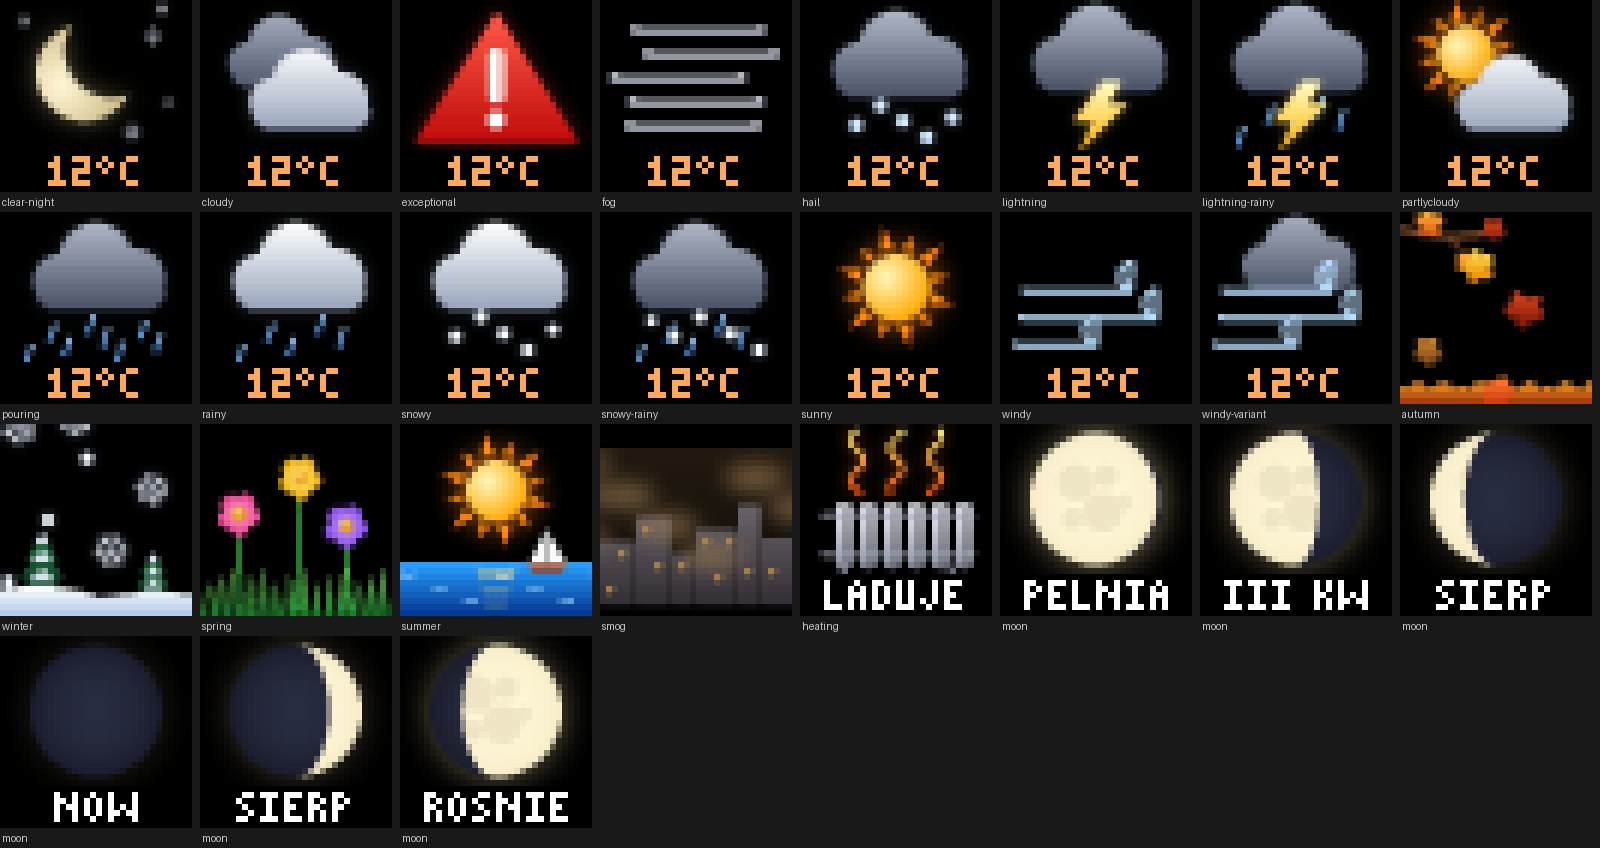
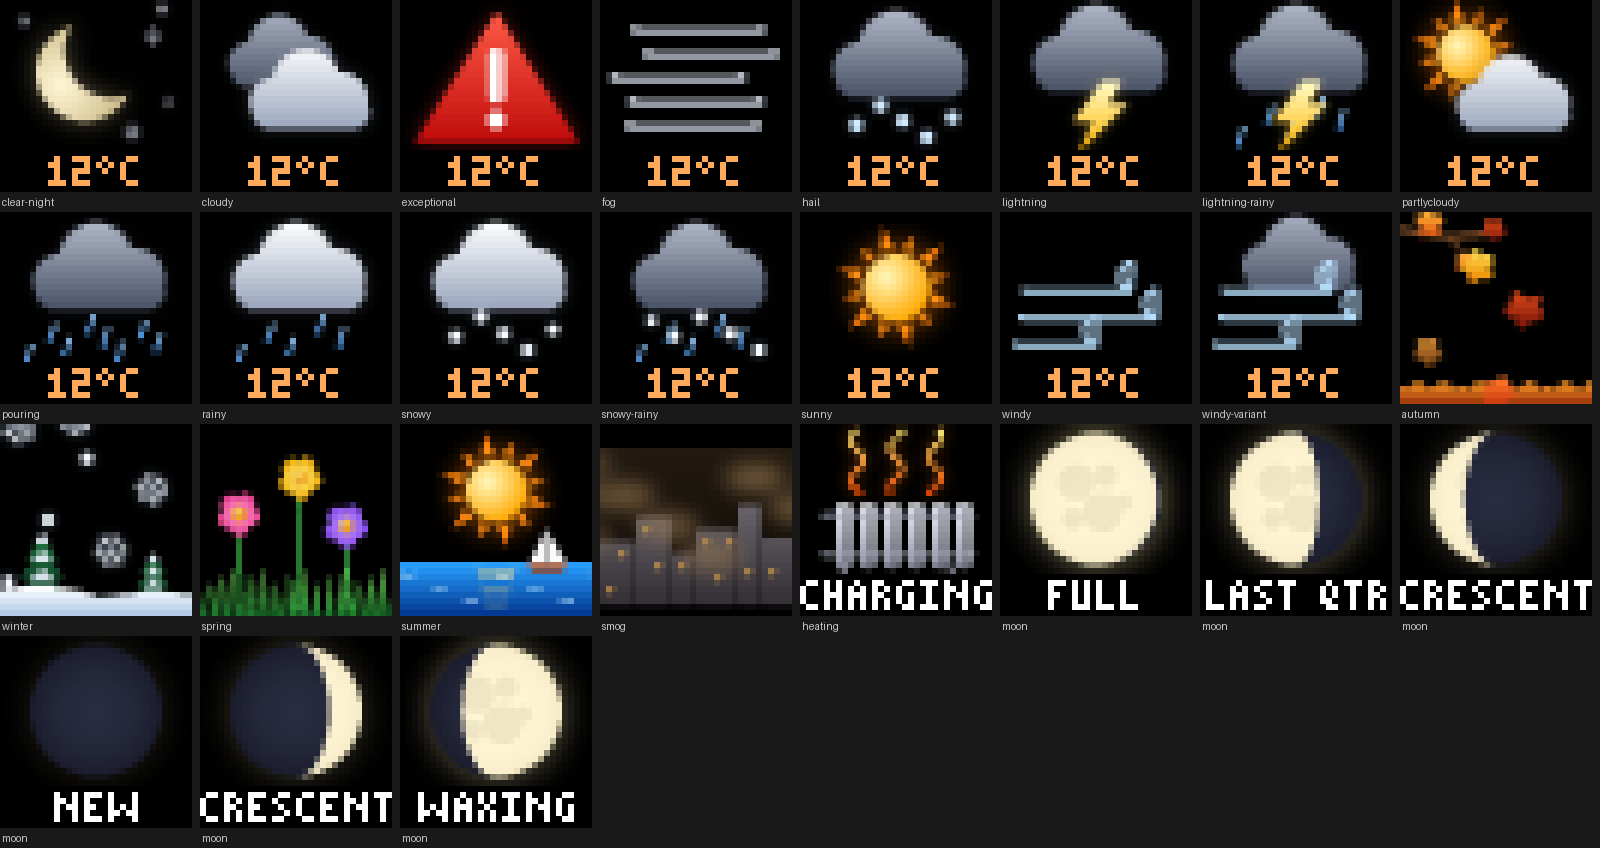
Add English captions and an English picture gallery
Automatic captions (moon phase names, heating "charging") now follow
Home Assistant's language (English or Polish), or the new `language`
field of show_icon. README gallery in English, Polish copy kept in
images/pictures_pl.png. Version 0.6.1.

Claude-Session: https://claude.ai/code/session_0126mxnvaX8dHVpu6rpKB9fY

diff --git a/custom_components/bk_light_panel/icons.py b/custom_components/bk_light_panel/icons.py
@@ -29,7 +29,23 @@ ALERTS = {"smog", "heating"}
 ANIMATED = (WEATHER - {"exceptional"}) | SEASONS | ALERTS
 ICONS = sorted(WEATHER | SEASONS | ALERTS | {"moon", "season"})
 
-SEASON_NAMES = {"spring": "WIOSNA", "summer": "LATO", "autumn": "JESIEŃ", "winter": "ZIMA"}
+# automatic captions; every text fits the 32-pixel width of the panel
+LANGUAGES = ("en", "pl")
+MOON_NAMES = {
+    "en": ["NEW", "CRESCENT", "1ST QTR", "WAXING", "FULL", "WANING", "LAST QTR", "CRESCENT"],
+    "pl": ["NÓW", "SIERP", "I KW", "ROŚNIE", "PEŁNIA", "UBYWA", "III KW", "SIERP"],
+}
+CHARGING = {"en": "CHARGING", "pl": "ŁADUJE"}
+SEASON_NAMES = {
+    "en": {"spring": "SPRING", "summer": "SUMMER", "autumn": "AUTUMN", "winter": "WINTER"},
+    "pl": {"spring": "WIOSNA", "summer": "LATO", "autumn": "JESIEŃ", "winter": "ZIMA"},
+}
+
+
+def language_for(code: str | None) -> str:
+    """'pl', 'pl-PL' -> 'pl'; anything else -> 'en'."""
+    code = (code or "en").lower()[:2]
+    return code if code in LANGUAGES else "en"
 
 # palette
 SUN_CORE, SUN_EDGE, SUN_GLOW = (255, 248, 190), (255, 168, 0), (255, 120, 0)
@@ -140,9 +156,8 @@ def moon_phase(now: datetime | None = None) -> float:
     return (days % 29.530588853) / 29.530588853
 
 
-def moon_name(phase: float) -> str:
-    names = ["NÓW", "SIERP", "I KW", "ROŚNIE", "PEŁNIA", "UBYWA", "III KW", "SIERP"]
-    return names[int((phase * 8 + 0.5)) % 8]
+def moon_name(phase: float, lang: str = "en") -> str:
+    return MOON_NAMES[language_for(lang)][int((phase * 8 + 0.5)) % 8]
 
 
 _MARIA = ((-0.30, -0.25, 0.28), (0.15, -0.35, 0.18), (0.10, 0.20, 0.30), (-0.35, 0.30, 0.16), (0.42, 0.05, 0.12))
@@ -436,11 +451,12 @@ def render_icon(
     caption_color=None,
     frame: int = 0,
     now: datetime | None = None,
+    lang: str = "en",
 ) -> Image.Image:
     """Draw one picture. 'season' and 'moon' work out today's season / phase.
 
-    caption None = automatic (moon phase name, "ŁADUJE" for heating),
-    "" = no caption.
+    caption None = automatic (moon phase name, "CHARGING" for heating) in
+    the given language (en / pl); "" = no caption.
     """
     name = (name or "").lower().strip()
     if name == "season":
@@ -463,13 +479,13 @@ def render_icon(
         phase = moon_phase(now)
         _moon(c, phase, 16, 12.5, 11)
         if caption is None:
-            caption = moon_name(phase)
+            caption = moon_name(phase, lang)
     elif name == "smog":
         _smog(c, frame)
     elif name == "heating":
         _heating(c, frame)
         if caption is None:
-            caption = "ŁADUJE"
+            caption = CHARGING[language_for(lang)]
     else:
         _weather(c, name, frame)
 

diff --git a/custom_components/bk_light_panel/__init__.py b/custom_components/bk_light_panel/__init__.py
@@ -49,7 +49,7 @@ from .const import (
 )
 from .aircraft import pick_nearest, render_aircraft
 from .aurora import DEFAULT_URL as AURORA_URL, next_hours, render_aurora, summary
-from .icons import ANIMATED, render_icon, season_for
+from .icons import ANIMATED, LANGUAGES, language_for, render_icon, season_for
 from .panel import BkLightPanel
 from .render import (
     apply_tint,
@@ -103,6 +103,7 @@ SHOW_ICON_SCHEMA = vol.Schema(
         vol.Optional(ATTR_CAPTION_COLOR): COLOR,
         vol.Optional(ATTR_DURATION, default=0): vol.All(vol.Coerce(float), vol.Range(0, 60)),
         vol.Optional("frame_interval", default=1.5): vol.All(vol.Coerce(float), vol.Range(0, 10)),
+        vol.Optional("language"): vol.In(LANGUAGES),
     }
 )
 SHOW_CLOCK_SCHEMA = vol.Schema(
@@ -251,9 +252,12 @@ async def async_setup(hass: HomeAssistant, config: ConfigType) -> bool:
         caption = call.data.get(ATTR_CAPTION)
         brightness = call.data[ATTR_BRIGHTNESS]
 
+        # captions follow Home Assistant's language unless one is given
+        lang = call.data.get("language") or language_for(hass.config.language)
+
         def frame_png(frame: int) -> bytes:
             return to_png(
-                render_icon(name, caption, call.data.get(ATTR_CAPTION_COLOR), frame),
+                render_icon(name, caption, call.data.get(ATTR_CAPTION_COLOR), frame, lang=lang),
                 brightness,
             )
 

diff --git a/tests/test_core.py b/tests/test_core.py
@@ -206,7 +206,8 @@ def test_moon_phase_known_dates():
     # the mean cycle is within about a day of the real moon (1 day = 0.034)
     assert abs(full - 0.5) < 0.034
     assert min(new, 1 - new) < 0.034
-    assert icons.moon_name(full) == "PEŁNIA"
+    assert icons.moon_name(full) == "FULL"
+    assert icons.moon_name(full, "pl") == "PEŁNIA"
 
 
 def test_season():
@@ -337,3 +338,14 @@ def test_aurora_picture():
     assert first.size == (32, 32) and first.tobytes() != later.tobytes()
     assert len(render.to_png(first)) < 2500
     assert aurora.render_aurora([], 0).size == (32, 32)
+
+
+def test_captions_in_both_languages_fit_the_panel():
+    for lang in icons.LANGUAGES:
+        words = icons.MOON_NAMES[lang] + [icons.CHARGING[lang]] + list(icons.SEASON_NAMES[lang].values())
+        for word in words:
+            assert render.text_width(word) <= 32, (lang, word)
+    assert icons.language_for("pl-PL") == "pl" and icons.language_for("de") == "en" and icons.language_for(None) == "en"
+    en = icons.render_icon("heating", None, frame=0, lang="en")
+    pl = icons.render_icon("heating", None, frame=0, lang="pl")
+    assert en.tobytes() != pl.tobytes()

diff --git a/README.md b/README.md
@@ -30,6 +30,10 @@ an aurora forecast, alerts and your own images.
 
 ![Pictures](images/pictures.png)
 
+Automatic captions (moon phase, "charging") follow your Home Assistant language:
+English, or Polish ([Polish gallery](images/pictures_pl.png)). Force one with
+`language: en` / `language: pl` in `show_icon`.
+
 ## Requirements
 
 - Home Assistant **2026.1 or newer** (developed and used on 2026.10).
@@ -136,8 +140,9 @@ Change the entity names at the top of the file to yours.
 - **Stored animations**: when nothing is connected, the panel plays the animations
   saved by its phone app. The integration therefore stays connected. To be safe,
   delete the saved programs in the app once.
-- The moon phase names and the heating caption are currently in Polish (e.g. *PEŁNIA*,
-  *ŁADUJE*). Translations are welcome.
+- Captions exist in English and Polish. More languages are welcome: add them to
+  `MOON_NAMES`, `CHARGING` and `SEASON_NAMES` in `icons.py` (every word must fit in
+  32 pixels; a test checks it).
 - Debug logging:
   ```yaml
   logger:

diff --git a/CHANGELOG.md b/CHANGELOG.md
@@ -1,5 +1,9 @@
 # Changelog
 
+## 0.6.1
+- Captions in English and Polish: follow Home Assistant's language, or `language: en|pl` in `show_icon`.
+- README gallery in English, Polish copy in `images/pictures_pl.png`.
+
 ## 0.6.0
 - Aurora forecast (`show_aurora`) from the NOAA SWPC Kp forecast, old and new data formats.
 - Adjustable animation pace (`frame_interval`).
